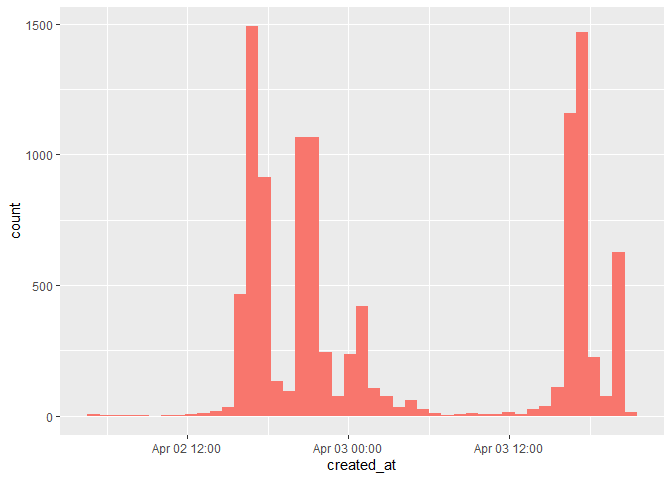
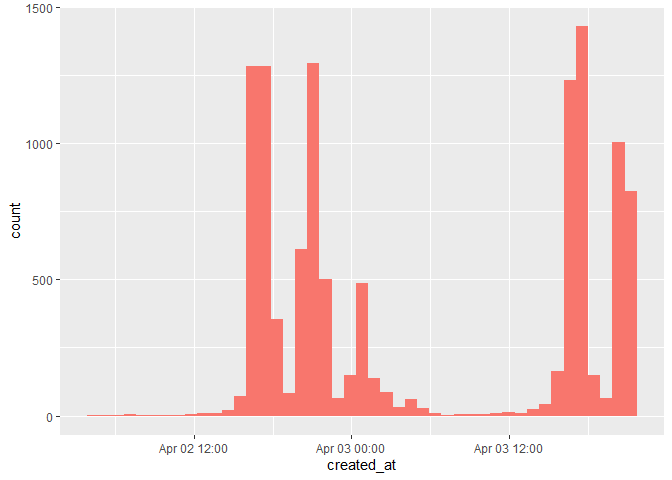
updateing data

diff --git a/README.md b/README.md
@@ -1,5 +1,6 @@
 
 <!-- README.md is generated from README.Rmd. Please edit that file -->
+
 # April 2022 General Conference of the Church of Jesus Christ of Latter-Day saints
 
 <!-- badges: start -->
@@ -18,3 +19,5 @@ below the 0 line are negative. The results show the it is mostly
 positive.
 
 ![](README_files/figure-gfm/Sentiment-1.png)<!-- -->
+
+Updated: 03APRIL2022 at 1735 EST
